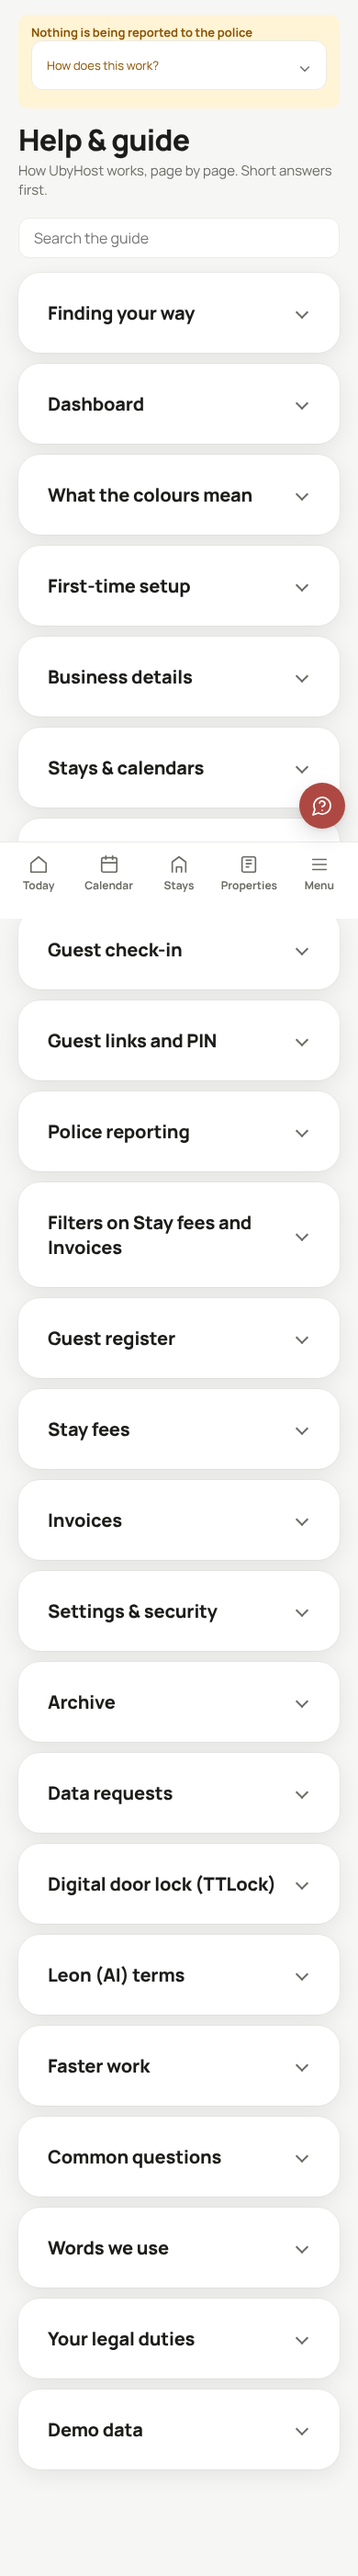
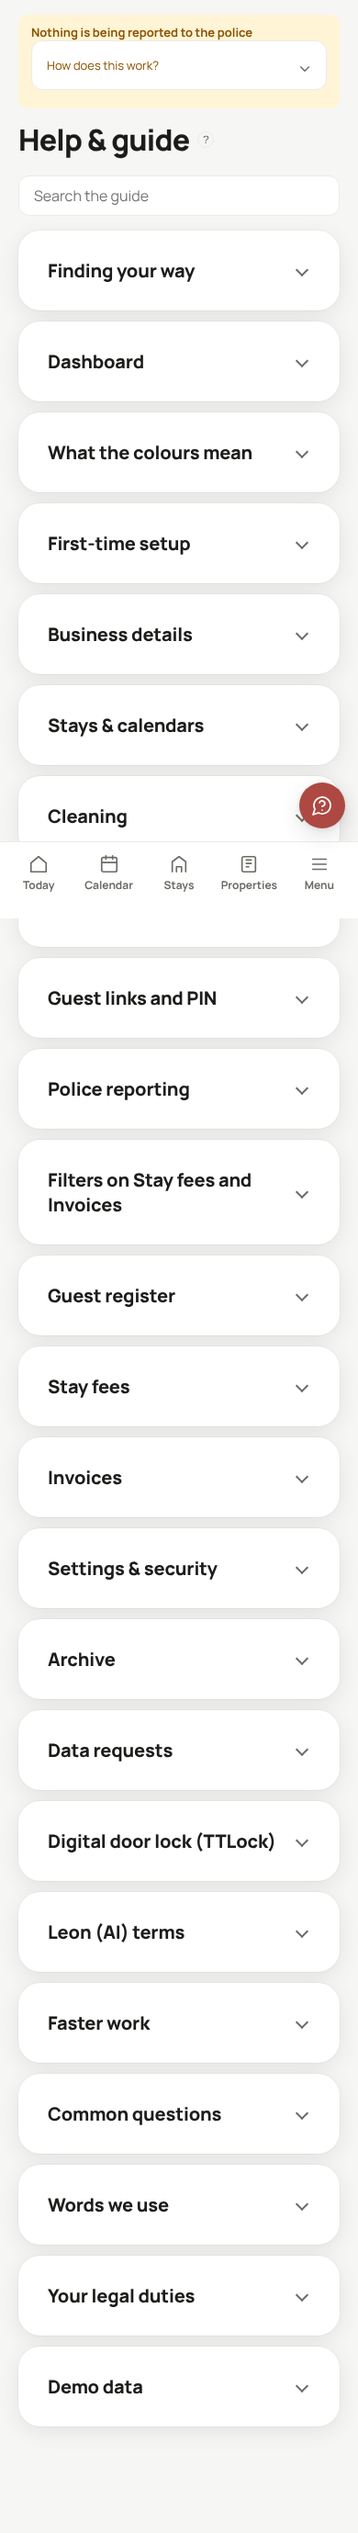
0814 round 2-3: add property row and fine print, choice card fix, tips inside headings; round 4 decisions
Claude-Session: https://claude.ai/code/session_01Cjmb7NdDTpZGab5h3XmCsd

diff --git a/App/app/templates/cleaning_edit.html b/App/app/templates/cleaning_edit.html
@@ -15,9 +15,9 @@
 <div class="ui-field"><label for="clean-property">{{ ct('property') }}</label>
 {% if event and event.source_reservation_id %}<input type="hidden" name="apartment_id" value="{{ event.apartment_id }}"><p class="cleaning-readonly">{% for home in homes if home.id == event.apartment_id %}{{ home.internal_name }}{% endfor %}</p>
 {% else %}<select id="clean-property" name="apartment_id" required><option value="">…</option>{% for home in homes %}<option value="{{ home.id }}" {% if values.apartment_id | string == home.id | string %}selected{% endif %}>{{ home.internal_name }}</option>{% endfor %}</select>{% endif %}</div>
-<div class="ui-field"><label for="clean-date">{{ ct('date') }}</label><input id="clean-date" type="date" name="scheduled_date" value="{{ values.scheduled_date }}" min="1900-01-01" max="2100-12-31" required></div>
-<p class="cleaning-timing-summary">{{ help_tip('cleaning-times-help', ct('property_times_hint')) }} <a class="cleaning-link" href="{{ '/apartments/' ~ values.apartment_id ~ '?view=settings&section=property#arrival-departure' if values.apartment_id else '/apartments/' }}">{{ ct('edit_property_times') }}</a></p>
-<div class="ui-field"><label for="clean-notes">{{ ct('notes') }}</label>{{ help_tip('clean-notes-hint', ct('notes_hint')) }}<textarea id="clean-notes" name="notes" rows="5" maxlength="5000" aria-describedby="clean-notes-hint">{{ values.notes or '' }}</textarea></div>
+<div class="ui-field"><label for="clean-date">{{ ct('date') }}{{ help_tip('cleaning-times-help', ct('property_times_hint')) }}</label><input id="clean-date" type="date" name="scheduled_date" value="{{ values.scheduled_date }}" min="1900-01-01" max="2100-12-31" required></div>
+<p class="cleaning-timing-summary"><a class="cleaning-link" href="{{ '/apartments/' ~ values.apartment_id ~ '?view=settings&section=property#arrival-departure' if values.apartment_id else '/apartments/' }}">{{ ct('edit_property_times') }}</a></p>
+<div class="ui-field"><label for="clean-notes">{{ ct('notes') }}{{ help_tip('clean-notes-hint', ct('notes_hint')) }}</label><textarea id="clean-notes" name="notes" rows="5" maxlength="5000" aria-describedby="clean-notes-hint">{{ values.notes or '' }}</textarea></div>
 {% if event and event.source_reservation_id %}{{ help_tip('clean-auto-help', ct('auto_help')) }}{% endif %}
 <div class="cleaning-actions"><button class="ui-btn ui-btn-primary" type="submit">{{ ct('save') }}</button><a class="ui-btn ui-btn-secondary" href="/cleaning">{{ ct('cancel') }}</a></div>
 </form>

diff --git a/App/app/static/app2.css b/App/app/static/app2.css
@@ -1419,11 +1419,11 @@ body.v2 .page-skeleton:not([hidden]) ~ *, body.v2 main[aria-busy="true"] > .ui-p
 body.v2 .help-tip{position:relative;display:inline-flex;flex:none;align-items:center;vertical-align:middle;margin-left:6px}
 body.v2 .help-tip-btn{position:relative;isolation:isolate;width:24px;height:24px;min-width:24px;min-height:24px;margin:-3px;padding:0;border:0;border-radius:50%;background:transparent;color:var(--ink3);font-size:12px;line-height:1;display:inline-flex;align-items:center;justify-content:center;box-sizing:border-box}
 body.v2 .help-tip-btn::after{content:"";position:absolute;z-index:-1;left:50%;top:50%;width:18px;height:18px;transform:translate(-50%,-50%);border:1px solid var(--line);border-radius:50%;box-sizing:border-box}
-@media (max-width:1023px){body.v2 .help-tip-btn{width:44px;height:44px;min-width:44px;min-height:44px;margin:-13px}}
+@media (max-width:1023px){body.v2 .help-tip-btn{width:44px;height:44px;min-width:44px;min-height:44px;margin:-13px -13px -13px 0}}
 body.v2 .heading-with-tip,body.v2 .prop-name-tip,body.v2 .havel-name-tip,body.v2 .prop-new .heading-with-tip{display:block}
 body.v2 .heading-with-tip>:not(.help-tip),body.v2 .prop-name-tip>:not(.help-tip),body.v2 .havel-name-tip>:not(.help-tip){min-width:0;display:inline;vertical-align:middle}
-body.v2 .head>div:has(>.havel-name-tip){display:flex;flex-wrap:nowrap;align-items:center;gap:6px}
-body.v2 .head>div:has(>.havel-name-tip)>h1{min-width:0;margin:0}
+@media (max-width:1023px){body.v2 .cl-v2-shares .cleaning-actions{flex-direction:row;flex-wrap:wrap}body.v2 .cl-v2-shares .cleaning-actions .ui-btn{width:auto}}
+body.v2 .cl-v2-shares .cleaning-actions>.help-tip{margin-left:0}
 body.v2 .help-tip-body{display:none}
 body.v2 .help-tip.is-open>.help-tip-body,body.v2 .help-tip:not([data-js]):focus-within>.help-tip-body{display:block;position:absolute;z-index:70;left:0;top:100%;margin:6px 0 0;box-sizing:border-box;width:min(320px,calc(100vw - 32px));padding:10px 12px;background:var(--s);color:var(--ink);border:1px solid var(--line);border-radius:10px;box-shadow:0 6px 24px rgba(0,0,0,.12);font-size:13px;font-weight:400;line-height:1.45;text-align:left;white-space:normal}
 /* 0828 guide search (v2) */

diff --git a/App/app/templates/guide.html b/App/app/templates/guide.html
@@ -9,7 +9,7 @@
 {% block body %}
 
 {% set sections = ['finding', 'overview', 'statuses', 'setup', 'business', 'stays', 'cleaning', 'guests', 'guest_links', 'reporting', 'filters', 'housebook', 'stay_fee', 'invoices', 'settings', 'archive', 'privacy_requests', 'door-codes', 'faster', 'faq', 'glossary', 'legal'] + (['demo'] if demo_available else []) %}
-<div class="head guide-head"><div><h1 class="big">{{ t('guide.title') }}</h1><p class="sub">{{ t('guide.lede') }}</p></div>{% if havel_on %}{{ ui_button(t('havel.launcher'), 'secondary', href='/havel', icon_name='message-circle-question', attrs='data-sheet-open="havel-sheet" data-havel-launcher') }}{% endif %}</div>
+{% from "_components.html" import help_tip with context %}<div class="head guide-head"><div><div class="heading-with-tip"><h1 class="big">{{ t('guide.title') }}</h1>{{ help_tip('guide-lede-help', t('guide.lede')) }}</div></div>{% if havel_on %}{{ ui_button(t('havel.launcher'), 'secondary', href='/havel', icon_name='message-circle-question', attrs='data-sheet-open="havel-sheet" data-havel-launcher') }}{% endif %}</div>
 <div class="guide-layout">
   <nav class="guide-nav card" aria-label="{{ t('guide.title') }}">
     {% for key in sections %}<a href="#{{ key }}" class="guide-nav-link">{{ t('guide.nav.' ~ key) }}</a>{% endfor %}

diff --git a/App/app/templates/cleaning_shares.html b/App/app/templates/cleaning_shares.html
@@ -7,7 +7,7 @@
 {% block page_title %}{% endblock %}
 {% block body %}
 <div class="cleaning-page cleaning-form-page cl-v2-shares">
-<div class="head"><div><p class="crumb"><a href="/cleaning">{{ ct('back') }}</a></p><div class="heading-with-tip"><h1 class="big">{{ ct('share') }}</h1>{{ help_tip('cleaning-share-intro-help', ct('share_intro')) }}</div></div></div>
+<div class="head"><div><p class="crumb"><a href="/cleaning">{{ ct('back') }}</a></p><div class="heading-with-tip"><h1 class="big">{{ ct('share') }}{{ help_tip('cleaning-share-intro-help', ct('share_intro')) }}</h1></div></div></div>
 {% if error %}<p class="cleaning-warning" role="alert">{{ ct('property_error') if error == 'property' else ct(error) }}</p>{% endif %}
 {% if share_url %}<section class="cleaning-panel cleaning-form card"><h2>{{ ct('share_ready') }}</h2>{{ help_tip('cleaning-share-once-help', ct('share_once')) }}<a class="cleaning-share-url" href="{{ share_url }}">{{ share_url }}</a></section>{% endif %}
 <form class="cleaning-panel cleaning-form card" method="post" action="/cleaning/shares"><input type="hidden" name="_csrf" value="{{ csrf_token }}">

diff --git a/App/app/templates/apartment_form.html b/App/app/templates/apartment_form.html
@@ -16,7 +16,7 @@
 {% set draft = draft or {} %}
 {% set copy_property_peers = copy_property_peers or [] %}
 {% if not editing %}
-<div class="head prop-new-head prop-new"><div><div class="heading-with-tip prop-name-tip"><h1 class="big">{{ t('property_create.title') }}</h1>{{ help_tip('property-create-lede-help', t('property_create.lede')) }}</div></div></div>
+<div class="head prop-new-head prop-new"><div><div class="heading-with-tip prop-name-tip"><h1 class="big">{{ t('property_create.title') }}</h1>{{ help_tip('property-create-lede-help', t('property_create.lede') ~ ' ' ~ t('common.required_legend')) }}</div></div></div>
 {% include "_property_create.html" %}
 {% else %}
 {% set base_url = '/apartments/' ~ apartment.id %}

diff --git a/App/app/templates/havel.html b/App/app/templates/havel.html
@@ -7,7 +7,7 @@
 {% block page_title %}{% endblock %}
 {% block meta %}{% endblock %}
 {% block body %}
-<div class="head"><div><h1 class="big">{{ t('havel.name') }}</h1><span class="havel-name-tip">{{ help_tip('havel-subtitle-help', t('havel.subtitle')) }}</span></div></div>
+<div class="head"><div><h1 class="big">{{ t('havel.name') }}{{ help_tip('havel-subtitle-help', t('havel.subtitle')) }}</h1></div></div>
 <div class="havel-v2">
 <section class="ui-section havel-page" data-havel-page data-havel-owner="{{ current_user.id }}">
   <div class="havel-thread" role="log" aria-live="polite" data-havel-thread>

diff --git a/App/app/templates/_property_create.html b/App/app/templates/_property_create.html
@@ -19,7 +19,6 @@
       {% if property_prefill.get('stay_fee_rate_czk') %}<br><span class="ui-sub">{{ t('apartment.form.copy_from.vs_hint') }}</span>{% endif %}</p>
     {% endif %}
     <form method="post" action="/apartments" class="property-create-form" id="property-create-form">
-      <p class="required-legend">{{ t('common.required_legend') }}</p>
       {# Enter in any field creates the property, never "Check again". #}
       <button type="submit" hidden tabindex="-1" aria-hidden="true"></button>
       {# Works without JavaScript too: csrf.js would add the same token. #}

diff --git a/App/tests/test_0800_v2_remaining_pages_browser.py b/App/tests/test_0800_v2_remaining_pages_browser.py
@@ -175,6 +175,8 @@ _HELP_TIP_SIZE_JS = """() => {
     const tip = btn.closest('.help-tip');
     const wrap = tip && tip.parentElement;
     let ref = tip && tip.previousElementSibling;
+    // 0814 round 3: a tip inside its label or heading (after the text) is measured against that element.
+    if (!ref && wrap && /^(LABEL|H1|H2)$/.test(wrap.tagName)) ref = wrap;
     if (!ref && wrap) ref = wrap.previousElementSibling || [...wrap.children].find(el => el !== tip) || null;
     const label = ref ? ref.textContent.trim().slice(0, 40) : '(no label)';
     const why = [];
@@ -185,6 +187,13 @@ _HELP_TIP_SIZE_JS = """() => {
     const left = cx - cw / 2;
     if (!ref) {
       why.push('no label before it');
+    } else if (ref.matches('button, .ui-btn')) {
+      // 0814 round 3: a "?" after a button is measured against the button box (centre, 6-12 px gap).
+      const rb = ref.getBoundingClientRect();
+      const dy = Math.abs(cy - (rb.top + rb.bottom) / 2);
+      const dx = left - rb.right;
+      if (dy > 4) why.push(`vertical offset ${dy.toFixed(1)}px`);
+      if (dx < 6 || dx > 12) why.push(`gap after button ${dx.toFixed(1)}px`);
     } else {
       // 0814 round 2: measure the last visible text node of the label (not boxes of inputs or the tip itself).
       const tw = document.createTreeWalker(ref, NodeFilter.SHOW_TEXT);

diff --git a/docs/tasks/0814-report.md b/docs/tasks/0814-report.md
@@ -41,3 +41,56 @@ Result, last run: `pytest tests/test_0800_v2_remaining_pages_browser.py -k help_
 
 Not run: the whole 0800 file, screenshots, design_lint.
 Not committed (per brief).
+
+## Round 2 (add property)
+
+Executor: Haiku 5.5, same brief, sections 10 h-k and 11 (choice_card).
+
+### Changed
+- `App/app/static/app2.css` 0800 block: `.prop-new .copy-settings-bar` is a left-aligned flex row (gap 12 px, overrides host2 `justify-content:flex-end`); on phone the copy button is `width:auto` (was 100%); `.prop-new .property-create-actions` margin-top 14 px (Cancel gap, was 6 px).
+- `App/app/static/app2.css` 0801 block: `@media (max-width:1023px){.wiz-page .ui-choice-card>.help-tip .help-tip-btn{margin:0}}`. Cause of choice_card[390-False-*] failure: the 0812 phone `margin:-13px` on the tip button put its 44 px box over the card's left edge (x+6), so the tap hit the tip, not the card label. Pre-0814 commit (f1385c64, checked with a temporary worktree, removed) passed.
+- `App/app/templates/_property_create.html`: removed the `required-legend` line.
+- `App/app/templates/apartment_form.html`: the page-title tip now holds `lede ~ ' ' ~ common.required_legend`.
+- `App/app/templates/guide.html` line 12: `<p class="sub">` removed; `help_tip('guide-lede-help', guide.lede)` next to the h1 in `.heading-with-tip`.
+- Item i: "Start with the basics..." was already only inside the title tip (no visible subtitle to remove).
+
+### Results
+- `pytest tests/test_onboarding_wizard_browser.py -k choice_card`: 15 passed.
+- `pytest tests/test_property_create_browser.py`: 13 passed.
+- Final set (`test_property_create_browser.py tests/test_onboarding_wizard_browser.py tests/test_0800_v2_remaining_pages_browser.py -k "not help_tip_is_small" -q`): 6 failed, 198 passed, 15 deselected.
+  - Failing: test_v2_remaining_page[property-new-320/390/768], [guide-320/390/768]. Message: "overlapping text ... 'Add property' and '?'" / "'Help & guide' and '?'".
+  - Cause: the 0812 phone rule `body.v2 .help-tip-btn{margin:-13px}` (app2.css 0812 block) pulls the 44 px tip box left over the title text, because `.help-tip` has margin-left 6px. Not in my scope (help-tip block, other executor). Suggested fix for that executor: phone `margin:-13px -13px -13px 0` (no negative left margin).
+- Screenshots: `UBYHOST_SHOTS_0800=1` run for property-new-390 and guide-390, see docs/tasks/screenshots-0800/ (not viewed).
+
+### Deviations
+- Brief said HEAD~3 for the pre-0814 worktree. Checked: HEAD~2 (f1385c64) is the parent of the first 0814 code commit (63eb8f5e), so the worktree used HEAD~2.
+- Item h: the "How does this work?" pill in the yellow banner above the title is not on the copy row (it belongs to the global banner, outside this scope). Only the copy button was aligned: left, own row, natural width.
+- Item j: 8 px came from the `.property-create-actions` margin 6 px (the card margin-bottom 14 px did not win). Fixed by 14 px; not re-probed with computed style, the 0813 neighbour test passes for property-new at 1024/1280/1440.
+
+### Owner steps left
+- None. Not committed (orchestrator commits).
+
+## Round 3
+
+Status: blocked (12 of 121 help-tip cases red in the whole 0800 file; one conflict needs an owner/orchestrator decision)
+
+Changed:
+- `App/app/templates/cleaning_edit.html`: "Cleaning date" tip moved from the timing paragraph into the `clean-date` label; "Cleaning notes" tip moved into the `clean-notes` label (after the text).
+- `App/app/templates/cleaning_shares.html`: "Share schedule" tip moved inside the h1, after the text.
+- `App/app/templates/havel.html`: tip moved inside the h1 (the `.havel-name-tip` span wrapper removed).
+- `App/app/static/app2.css`, `/* 0812 help tip (v2) */` block only: removed the `.head>div:has(>.havel-name-tip)` flex rule; phone `.help-tip-btn` margin now `-13px -13px -13px 0` (coordinator note); new `.cl-v2-shares .cleaning-actions` phone row rule (button `width:auto`, tip beside it) and `.cl-v2-shares .cleaning-actions>.help-tip{margin-left:0}`.
+- `App/tests/test_0800_v2_remaining_pages_browser.py`, `_HELP_TIP_SIZE_JS` only: a tip inside a LABEL/H1/H2 is measured against that element; a "?" after a button or `.ui-btn` is measured against the button box (centre diff <= 4 px, gap 6-12 px).
+- Not touched: apartment_form.html, _property_create.html, guide.html (guide subtitle), 0800/0801 blocks, field_label macro.
+
+Commands (last lines):
+- `pytest tests/test_0800_v2_remaining_pages_browser.py -q` (whole file): `12 failed, 109 passed in 210.23s`. Red: property-new, onboarding, setup-property, setup-calendar, setup-police, setup-guest-link, setup-stay-fee, guest-guide, guide, havel, cleaning-new, cleaning-shares.
+
+Conflict (decision needed):
+- At phone width the 44 px tap box must overlap the label by about 7 px for the "?" circle to sit within 6-12 px of the label (circle = box left + 13). The coordinator's margin `-13px -13px -13px 0` keeps the box clear of the title but puts the circle 19 px after the label, so the 0-12 gap check fails on havel, cleaning-new, cleaning-shares (19-25 px) and onboarding (21.8 px). The earlier `-13px` (all sides) passed the gap check and failed the overlap check. Choose one: relax the gap check on phone to <= 20 px, or accept the tap-box overlap.
+
+Still red, not fixed (outside this brief's files or shared code):
+- property-new: Add property, other executor's files.
+- guide: the tip sits after the h1 in guide.html; fixing it means editing guide.html, which is the guide subtitle the other executor owns.
+- setup-property, setup-calendar, setup-police, setup-guest-link, setup-stay-fee, guest-guide: the tips come from the shared `field_label` macro (`_components.html`, wraps label + tip in `.field-label-row`) and from `guest_guide.html`'s import section. Moving the tip into the label means changing the macro for every page, so not done without an owner decision.
+
+Not committed (per brief). No screenshots taken this round.

diff --git a/docs/tasks/0814-v2-help-tip-small-inline.md b/docs/tasks/0814-v2-help-tip-small-inline.md
@@ -57,3 +57,9 @@ Files for 10: `App/app/templates/apartment_form.html`, `App/app/templates/_prope
 - havel 1024-1440: remove the flex row rule `.head>div:has(>.havel-name-tip)` and let the tip sit inline inside/after the h1 text like the others.
 - Then run the whole 0800 file and fix any property-new, setup-*, guest-guide, guide case the same way (tip inside the heading/label, inline).
 - The modified PNGs under docs/tasks/screenshots-guide/ come from test runs: ignore them.
+
+## 13. Round 4 decisions (orchestrator, from "Round 3" in the report)
+- Phone geometry: keep the box from overlapping the text and keep the visible gap 6 px: below 1024 px the 18 px circle (`::after`) sits at the LEFT of the 44 px box (`left:0;top:13px`, not centred), the box margins are `-13px -26px -13px 0` (layout footprint 18 px wide), `.help-tip{margin-left:6px}`. Desktop unchanged (24 px box, circle centred, -3px margins).
+- The test measures the gap and the vertical centre from the visible circle: circle rect = box rect offset by the `::after` computed `left`/`top` and sized by its `width`/`height`. Limits stay: centre <= 4 px, gap 0-12 px.
+- setup-* and guest-guide: change the shared `field_label` macro in `App/app/templates/_components.html` so its help tip renders inside the `<label>` right after the text (same markup otherwise). Then also run `.venv/bin/python -m pytest tests -q -k "label or help_tip or field" --tb=line -p no:cacheprovider 2>&1 | tail -8` to catch other pages.
+- guide and property-new: the other executor is done; their title tips may now be fixed here (tip inside the h1, after the text).
